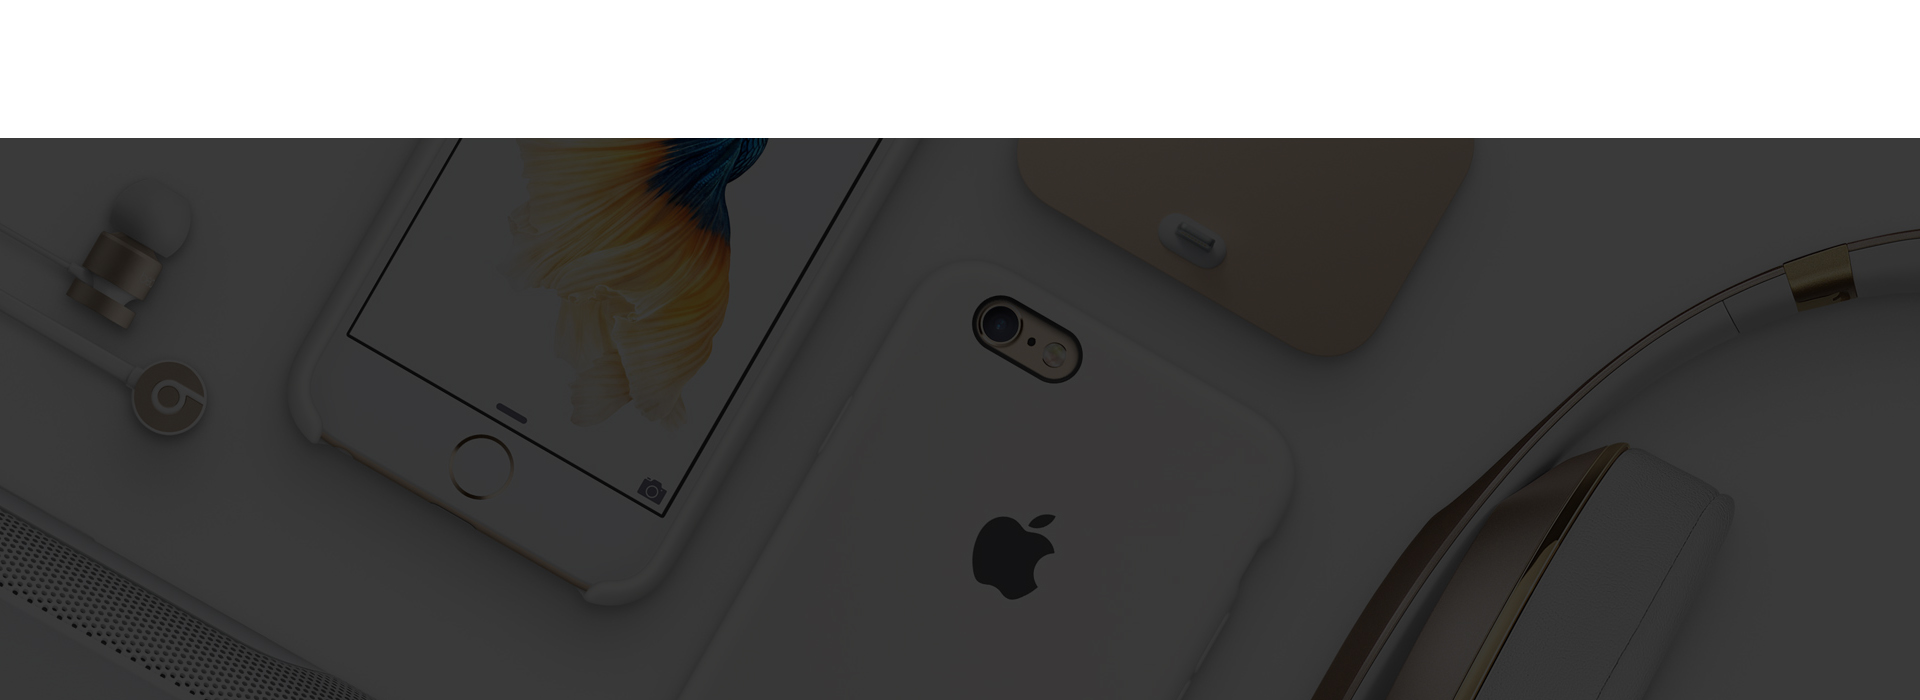
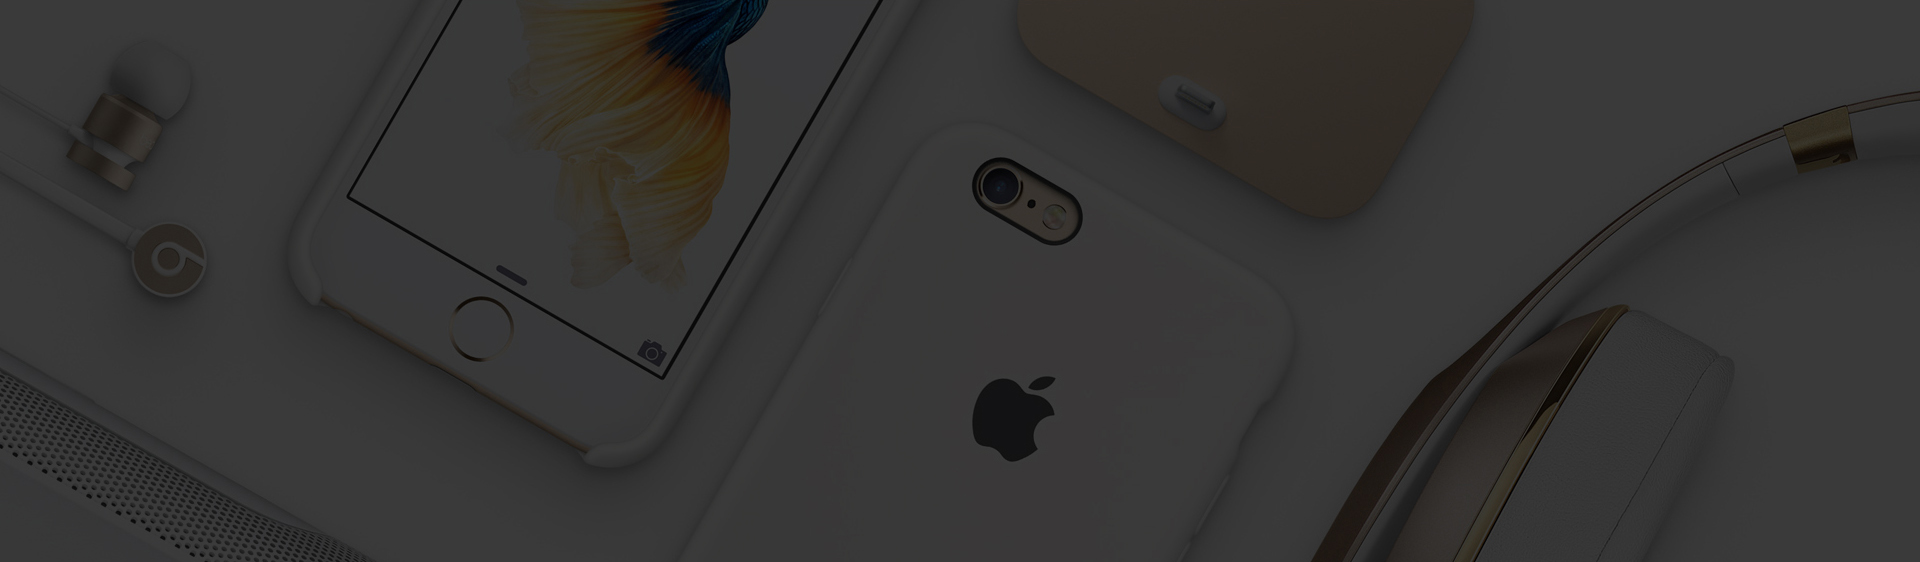
task2

diff --git a/src/App.js b/src/App.js
@@ -2,47 +2,55 @@ import React, { Component } from 'react';
 import logo from './logo.svg';
 import './App.css';
 import Grid from 'react-bootstrap/lib/Grid';
-import Row from 'react-bootstrap/lib/Row';
-import Col from 'react-bootstrap/lib/Col';
 import styled from 'styled-components';
+
+import Main from './components/Main';
+import Menu from './components/Menu';
+import Header from './components/Header';
+
+const url = process.env.PUBLIC_URL + '/img/bg.jpg';
+const HeaderWrapper = styled.header`
+	width: 100%;
+	height: 49px;
+	background-color: #242424;
+	opacity: 0.8;
+`
+const MenuWrapper = styled.div`
+	height: 89px;
+	padding-top: 20px;
+`
+
+const MainWrapper = styled.main`
+	height: 600px;
+	padding-top: 130px;
+	background: url(${url}) no-repeat;
+	backgroundSize: cover;
+`
 class App extends Component {
-  render() {
-    return (
-      <div className="wrapper">
-         <SayFullName name="Artur" surname="Elkin" link="vk.com/workout_ka4er"/>
-         <SayFullName name="Someone" surname="Any surname" link="vk.com/japancar_club"/>
-         <SayFullName name="Bla" surname="Blabla" link="#"/>
-      </div>
-    );
-  }
+	render() {
+		return (
+				<div className="App">
+					<HeaderWrapper>
+						<Grid>
+							<Header />
+						</Grid>
+					</HeaderWrapper>
+					<MenuWrapper>
+						<Grid>
+							<Menu />
+						</Grid>
+					</MenuWrapper>
+					<MainWrapper>
+						<Grid>
+							<Main />
+						</Grid>
+					</MainWrapper>
+						
+				</div>
+		)
+	}
 }
 
-function Hello () { 
-  return (
-        <h1> Hello  </h1>
-    )
-}
 
-function SayFullName(info) {
-  return (
-        <div>
-          <h1>Мое имя: {info.name}</h1>
-          <h1> Фамилия : {info.surname} </h1>
-          <a href={info.link}>Мой профиль ВК</a>
-        </div>
-    )
-}
-const element = <SayFullName name="Artur" surname="Elkin" link="vk.com/workout_ka4er"/>;
-
-
-function AllNames() {
-  return (
-      <div>
-         <SayFullName name="Artur" surname="Elkin" link="vk.com/workout_ka4er"/>
-         <SayFullName name="Someone" surname="Any surname" link="vk.com/japancar_club"/>
-         <SayFullName name="Bla" surname="Blabla" link="#"/>
-      </div>
-    )
-}
 
 export default App;

diff --git a/src/components/Menu.js b/src/components/Menu.js
@@ -1,0 +1,98 @@
+import React, { Component } from 'react';
+import Row from 'react-bootstrap/lib/Row';
+import Col from 'react-bootstrap/lib/Col';
+import styled from 'styled-components';
+
+
+const Repair = styled.div`
+	color: #464646;
+	font-family: Roboto;
+	font-size: 18px;
+	font-weight: 300;
+	line-height: 22px;
+`
+
+const WorkTime = styled.div`
+	color: #2a2a2a;
+	font-size: 12px;
+	font-weight: 300;
+	line-height: 24px;
+
+	span {
+		display: block;
+		color: #464646;
+		font-size: 21px;
+		font-weight: 500;
+	}
+`
+
+const Calls = styled.div`
+	color: #2a2a2a;
+	font-size: 12px;
+	font-weight: 300;
+	line-height: 24px;
+
+	span {
+		display: block;
+		color: #464646;
+		font-size: 21px;
+		font-weight: 500;
+	}
+`
+
+const CallBtn = styled.button`
+	width: 176px;
+	height: 48px;
+	background-color: #3fc7db;
+	border-radius: 30px;
+	color: #ffffff;
+	font-size: 14px;
+	font-weight: 400;
+`
+class Adress extends React.Component {
+	render() {
+		return (
+				<span>{this.props.adress}</span>
+			)
+	}
+}
+
+class TelNumber extends React.Component {
+	render() {
+		return (
+				<span>{this.props.number}</span>
+			)
+	}
+}
+
+class Menu extends React.Component {
+	render() {
+		return (
+				<Row>
+					<Col lg={3} ljOffset={1}>
+						<Repair>
+							Ремонт айфонов в сервисном
+							центре и на выезде
+						</Repair>
+					</Col>
+					<Col lg={3}>
+						<WorkTime>
+							Пн-пт с 10 до 20, сб,вс с 11 до 18
+							<Adress adress="Ленинская, 301"/>
+						</WorkTime>
+					</Col>
+					<Col lg={3}>
+						<Calls>
+							Пн-пт с 10 до 20, сб,вс с 11 до 18
+							<TelNumber number="8 (846) 922 55 44"/>
+						</Calls>
+					</Col>
+					<Col lg={2}>
+						<CallBtn>Заказать звонок!</CallBtn>
+					</Col>
+				</Row>
+			)
+	}
+}
+
+export default Menu;

diff --git a/src/components/Main.js b/src/components/Main.js
@@ -1,0 +1,64 @@
+import React, { Component } from 'react';
+
+
+
+import Row from 'react-bootstrap/lib/Row';
+import Col from 'react-bootstrap/lib/Col';
+import styled from 'styled-components';
+const Repair = styled.div`
+	color: #ffffff;
+	font-weight: 700;
+	line-height: 50px;
+	font-size: 40px;
+
+	span {
+		display: block;
+		font-size: 24px;
+		line-height: 30px;
+	}
+`
+
+const LightText = styled.div`
+	color: #ffffff;
+	font-size: 18px;
+	font-weight: 300;
+	line-height: 28px;
+	margin-top: 54px;
+`
+
+const CallBtn = styled.button`
+	width: 247px;
+	height: 67px;
+	background-color: #ffa14b;
+	border-radius: 30px;
+	color: #ffffff;
+	margin-top: 32px
+	font-family: Roboto;
+	font-size: 18px;
+	font-weight: bold;
+`
+class Main extends React.Component {
+	render() {
+		return (
+				<Row>
+					<Col lg={5}>
+						<Repair> Качественный ремонт 
+							<span>iphone за 35 минут и гарантия 1 год</span>
+						</Repair>
+						<LightText>
+							Оставьте заявку на бесплатную диагностику без очереди,
+и получите защитное стекло, стоимостью 1000 рублей,
+с установкой в подарок!
+						</LightText>
+
+						<CallBtn>Отрпавить заявку!</CallBtn>
+					</Col>
+					<Col lg={6} lgOffset={1}>
+
+					</Col>
+				</Row>
+			)
+	}
+}
+
+export default Main;

diff --git a/src/components/Header.js b/src/components/Header.js
@@ -1,0 +1,40 @@
+import React, { Component } from 'react';
+import Row from 'react-bootstrap/lib/Row';
+import Col from 'react-bootstrap/lib/Col';
+import styled from 'styled-components';
+
+import Link from './Link';
+
+const List = styled.ul`
+	display: flex;
+	justify-content: space-between;
+	align-items: center;
+	padding: 0;
+	height: 49px;
+`
+
+
+class Header extends React.Component {
+	render() {
+		return (
+				<Row>
+					<Col lg={12}>
+						<nav>
+							<List>
+								<Link link="#" text="Вызов мастера"/>
+								<Link link="#" text="Прайс на ремонт"/>
+								<Link link="#" text="Наши преимущества"/>
+								<Link link="#" text="Схема работы"/>
+								<Link link="#" text="Отзывы клиентов"/>
+								<Link link="#" text="Примеры работ"/>
+								<Link link="#" text="Контакты"/>
+							</List>
+						</nav>
+
+					</Col>
+				</Row>
+			)
+	}
+}
+
+export default Header;

diff --git a/src/components/Link.js b/src/components/Link.js
@@ -1,0 +1,30 @@
+import React, { Component } from 'react';
+import styled from 'styled-components';
+
+const StyledLink = styled.a`
+	color: ${props => props.active ? 'pink' : '#fff'};
+	
+	font-size: 14px;
+	font-weight: 300;
+	line-height: 24px;
+	padding-right: 33px;
+	border-right: 1px dotted #fff; 
+
+	&:hover {
+		color: #8d8d8d;
+		text-decoration: none;
+	}
+
+	&:last-child {
+		border-right: none;
+	}
+`
+class Link extends React.Component {
+	render() {
+		return (
+				<StyledLink active href={this.props.link}> {this.props.text} </StyledLink>
+			)
+	}
+}
+
+export default Link;

diff --git a/src/App.css b/src/App.css
@@ -1,8 +1,14 @@
+
+*{
+    outline: none;
+}
 .App {
-  text-align: center;
+    width: 100%;
+    box-sizing: border-box;
+    font-family: "Roboto";
 }
 
-.App-logo {
+/* .App-logo {
   animation: App-logo-spin infinite 20s linear;
   height: 80px;
 }
@@ -26,3 +32,4 @@
   from { transform: rotate(0deg); }
   to { transform: rotate(360deg); }
 }
+ */
